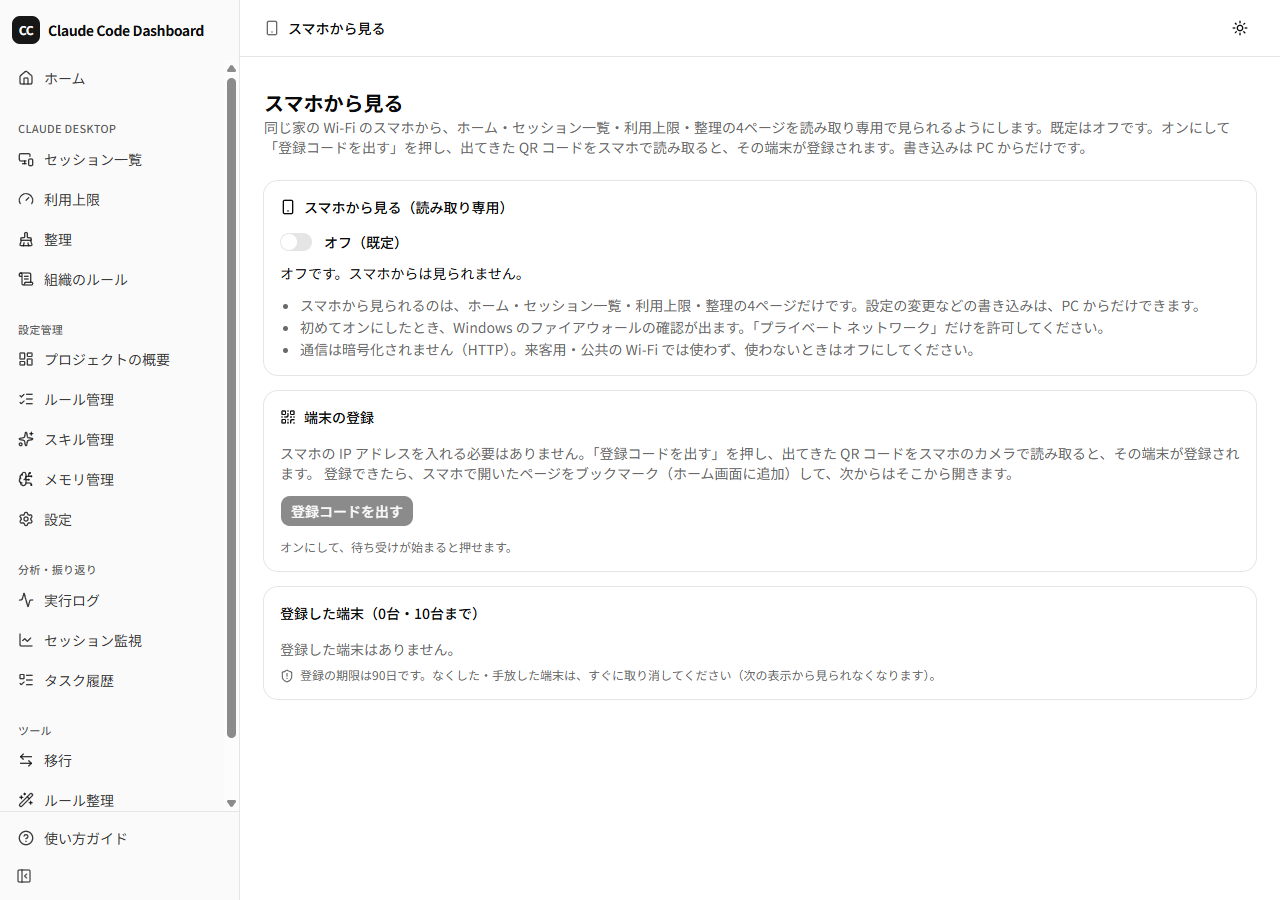
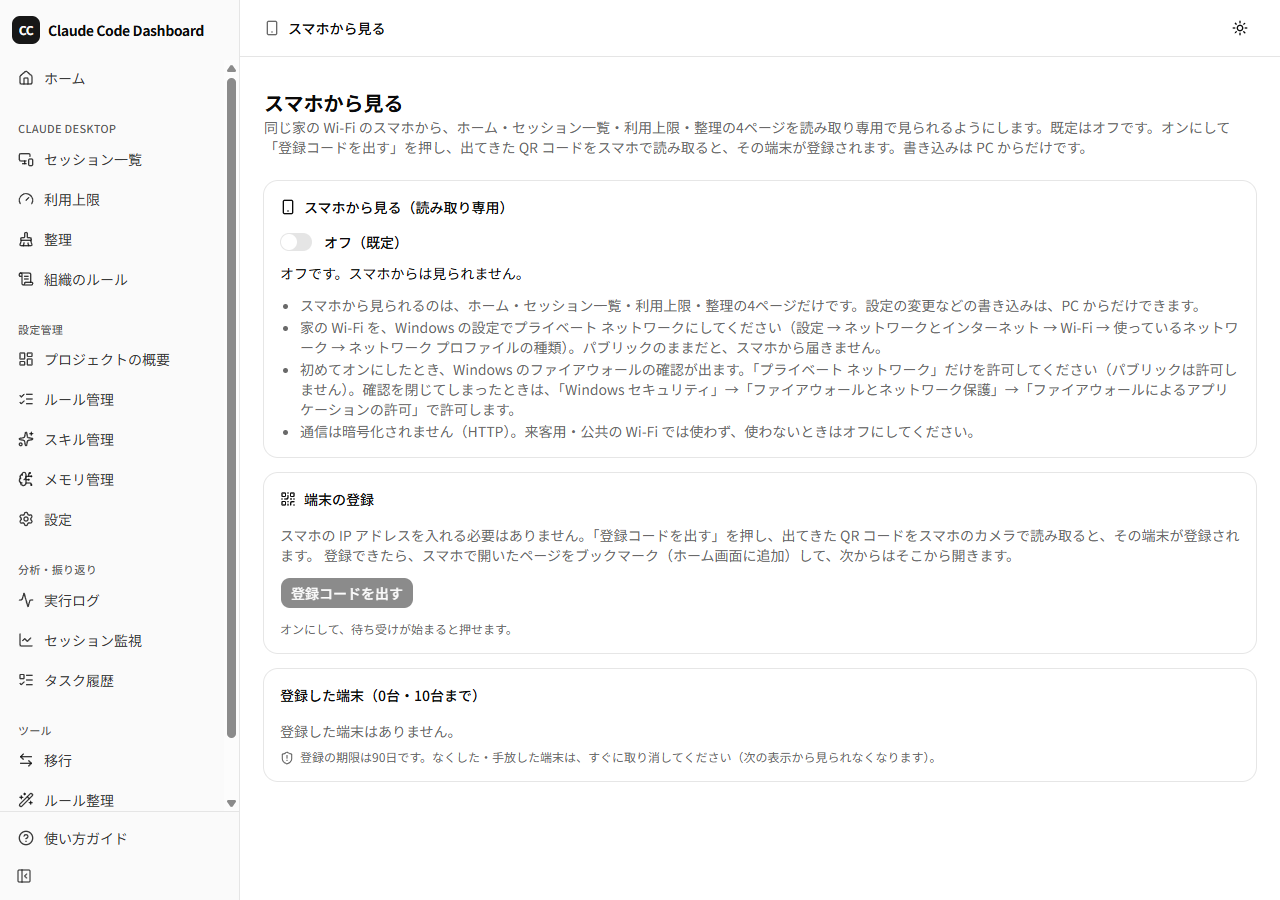
⑪ の後の小さな直し：Wi-Fi をプライベートにする案内、長いパスの前置きでもユーザー名を隠す、ガイドの文言と撮影の手順の置き場
- 「スマホから見る」の画面・/help・使い方ガイドに、家の Wi-Fi を Windows でプライベート ネットワークにする手順を足す（パブリックのままだとスマホから届かない）。確認の画面を閉じたときの直し方も足す
- 作業フォルダが \\?\C:\Users\<名前> や \\?\UNC\… の形でも、前置きを外してから判定し、ホームのフォルダそのものは ~ にする（テストを足す）
- 番号が使用中のときのガイドの文言を、実際の表示に合わせる
- 画像の撮り方の手順と check-sample-server.mjs の例で、合成データの置き場を %TEMP% の下にする（C:\ の直下に一時フォルダを作らない）
- 「スマホから見る」の画像を撮り直す

Changed region(s): [[0.2188, 0.3422, 0.9688, 0.7778], [0.2188, 0.8089, 0.7188, 0.8711], [0.875, 0.5911, 0.9688, 0.6222]]

diff --git a/src/app/help/page.tsx b/src/app/help/page.tsx
@@ -223,7 +223,7 @@ const PAGE_GUIDES: PageGuide[] = [
     label: "スマホから見る",
     icon: Smartphone,
     description:
-      "同じ家の Wi-Fi のスマホから、ホーム・セッション一覧・利用上限・整理の4ページを読み取り専用で見られるようにする（既定はオフ）。オンにして「登録コードを出す」を押し、出てきた QR コードをスマホのカメラで読み取ると、その端末が登録される（コードは5分・1回だけ）。スマホの IP アドレスを入れる必要はない。登録したら、スマホで開いたページをブックマークして、次からはそこから開く。スマホではスマホ用の画面になり、最初の画面に対応待ち・送信上限で停止・実行中の数・利用上限が出る（下の4つのタブで移る。15秒ごとに読み直し、画面を閉じているあいだは止まる）。書き込み（設定の変更・通知のスイッチ）は PC からだけで、スマホからはできない。作業フォルダのパスは、スマホには最後のフォルダ名だけを出す。登録の期限は90日で、端末ごとに取り消せる。通信は暗号化されない（HTTP）ので、来客用・公共の Wi-Fi では使わず、使わないときはオフにする。初めてオンにしたときは Windows のファイアウォールの確認が出るので、「プライベート ネットワーク」だけを許可する。",
+      "同じ家の Wi-Fi のスマホから、ホーム・セッション一覧・利用上限・整理の4ページを読み取り専用で見られるようにする（既定はオフ）。オンにして「登録コードを出す」を押し、出てきた QR コードをスマホのカメラで読み取ると、その端末が登録される（コードは5分・1回だけ）。スマホの IP アドレスを入れる必要はない。登録したら、スマホで開いたページをブックマークして、次からはそこから開く。スマホではスマホ用の画面になり、最初の画面に対応待ち・送信上限で停止・実行中の数・利用上限が出る（下の4つのタブで移る。15秒ごとに読み直し、画面を閉じているあいだは止まる）。書き込み（設定の変更・通知のスイッチ）は PC からだけで、スマホからはできない。作業フォルダのパスは、スマホには最後のフォルダ名だけを出す。登録の期限は90日で、端末ごとに取り消せる。通信は暗号化されない（HTTP）ので、来客用・公共の Wi-Fi では使わず、使わないときはオフにする。初めてオンにしたときは Windows のファイアウォールの確認が出るので、「プライベート ネットワーク」だけを許可する（確認を閉じてしまったときは、「Windows セキュリティ」→「ファイアウォールとネットワーク保護」→「ファイアウォールによるアプリケーションの許可」で許可する）。家の Wi-Fi は、Windows の設定でプライベート ネットワークにしておく（設定 → ネットワークとインターネット → Wi-Fi → 使っているネットワーク → ネットワーク プロファイルの種類）。パブリックのままだと、「プライベート ネットワーク」だけを許可してもスマホから届かない。パブリックは許可しない。",
   },
 ]
 
@@ -306,7 +306,7 @@ const FAQ: { q: string; a: string }[] = [
   },
   {
     q: "スマホから見られますか？スマホの IP アドレスを入れますか？",
-    a: "見られます（読み取り専用。既定はオフ）。サイドバーの「ツール」の「スマホから見る」でオンにし、「登録コードを出す」を押して、出てきた QR コードをスマホのカメラで読み取ると、その端末が登録されます。スマホの IP アドレスは入れません。家のルーターはスマホの IP アドレスを変えることがあり、同じ Wi-Fi の別の機器がその IP アドレスを名乗ることもできるため、IP アドレスで許す方式にはしていません。スマホから見られるのは、ホーム・セッション一覧・利用上限・整理の4ページだけで、書き込みは PC からだけです。PC とスマホが同じ家の Wi-Fi（LAN）につながっている必要があります。",
+    a: "見られます（読み取り専用。既定はオフ）。サイドバーの「ツール」の「スマホから見る」でオンにし、「登録コードを出す」を押して、出てきた QR コードをスマホのカメラで読み取ると、その端末が登録されます。スマホの IP アドレスは入れません。家のルーターはスマホの IP アドレスを変えることがあり、同じ Wi-Fi の別の機器がその IP アドレスを名乗ることもできるため、IP アドレスで許す方式にはしていません。スマホから見られるのは、ホーム・セッション一覧・利用上限・整理の4ページだけで、書き込みは PC からだけです。PC とスマホが同じ家の Wi-Fi（LAN）につながっている必要があります。スマホから届かないときは、家の Wi-Fi が Windows でプライベート ネットワークになっているかを確かめてください（設定 → ネットワークとインターネット → Wi-Fi → 使っているネットワーク → ネットワーク プロファイルの種類）。パブリックのままだと届きません。",
   },
   {
     q: "「ルール整理」ページで提案が表示されない",

diff --git a/src/components/lanAccess/LanAccessView.tsx b/src/components/lanAccess/LanAccessView.tsx
@@ -111,7 +111,13 @@ export function LanAccessView() {
           )}
           <ul className="list-disc space-y-0.5 pl-5 text-muted-foreground">
             <li>スマホから見られるのは、ホーム・セッション一覧・利用上限・整理の4ページだけです。設定の変更などの書き込みは、PC からだけできます。</li>
-            <li>初めてオンにしたとき、Windows のファイアウォールの確認が出ます。「プライベート ネットワーク」だけを許可してください。</li>
+            <li>
+              家の Wi-Fi を、Windows の設定でプライベート ネットワークにしてください（設定 → ネットワークとインターネット → Wi-Fi →
+              使っているネットワーク → ネットワーク プロファイルの種類）。パブリックのままだと、スマホから届きません。
+            </li>
+            <li>
+              初めてオンにしたとき、Windows のファイアウォールの確認が出ます。「プライベート ネットワーク」だけを許可してください（パブリックは許可しません）。確認を閉じてしまったときは、「Windows セキュリティ」→「ファイアウォールとネットワーク保護」→「ファイアウォールによるアプリケーションの許可」で許可します。
+            </li>
             <li>通信は暗号化されません（HTTP）。来客用・公共の Wi-Fi では使わず、使わないときはオフにしてください。</li>
           </ul>
         </CardContent>

diff --git a/src/lib/lanAccess/redact.test.ts b/src/lib/lanAccess/redact.test.ts
@@ -51,6 +51,16 @@ describe("スマホへ返す応答のパスを隠す（すき間）", () => {
     expect(redactForLan({ toString: "x", constructor: "y" })).toEqual({ toString: "x", constructor: "y" })
   })
 
+  it("Windows の長いパスの前置き(\\\\?\\・\\\\.\\・\\\\?\\UNC\\)があっても、ホームのフォルダそのものは ~ にし、名前を出さない", () => {
+    expect(redactForLan({ cwd: "\\\\?\\C:\\Users\\someone", folderName: "someone" })).toEqual({ cwd: "~", folderName: "~" })
+    expect(redactForLan({ cwd: "\\\\.\\C:\\Users\\someone\\" }).cwd).toBe("~")
+    expect(redactForLan({ cwd: "//?/C:/Users/someone" }).cwd).toBe("~")
+    expect(redactForLan({ cwd: "\\\\?\\C:\\Users\\someone\\work", folderName: "work" })).toEqual({ cwd: "work", folderName: "work" })
+    expect(redactForLan({ cwd: "\\\\?\\UNC\\server\\share\\proj" }).cwd).toBe("proj")
+    expect(redactForLan("作業場所: \\\\?\\C:\\Users\\someone です")).toBe("作業場所: ~ です")
+    expect(lastSegment("\\\\?\\C:\\")).toBe("")
+  })
+
   it("macOS の外付けの場所(/Volumes/<名前>/…)も隠す", () => {
     expect(redactForLan("開く: /Volumes/someone-disk/work/a.txt")).toBe("開く: a.txt")
     expect(redactForLan({ cwd: "/Volumes/someone-disk/work" }).cwd).toBe("work")

diff --git a/src/lib/lanAccess/redact.ts b/src/lib/lanAccess/redact.ts
@@ -43,9 +43,19 @@ function decodeSafe(s: string): string {
   }
 }
 
+/**
+ * Windows の長いパスの前置き(`\\?\C:\…`・`\\.\C:\…`・`\\?\UNC\server\…`)を外す。外さないと、ホームのフォルダそのもの
+ * (`\\?\C:\Users\<名前>`)を見分けられず、ユーザー名が最後の名前として出てしまう
+ */
+function stripLongPathPrefix(p: string): string {
+  const m = /^[\\/]{2}[?.][\\/](UNC[\\/])?/i.exec(p)
+  if (!m) return p
+  return (m[1] ? "\\\\" : "") + p.slice(m[0].length)
+}
+
 /** パスを、最後の名前にする。ホームのフォルダそのものは `~`、ドライブだけは空 */
 export function lastSegment(p: string): string {
-  const plain = decodeSafe(p.replace(/^file:\/\/\/?/i, ""))
+  const plain = stripLongPathPrefix(decodeSafe(p.replace(/^file:\/\/\/?/i, "")))
   if (HOME_DIR.test(plain)) return "~"
   const parts = plain.split(/[\\/]+/).filter(Boolean)
   const last = parts[parts.length - 1] ?? ""
